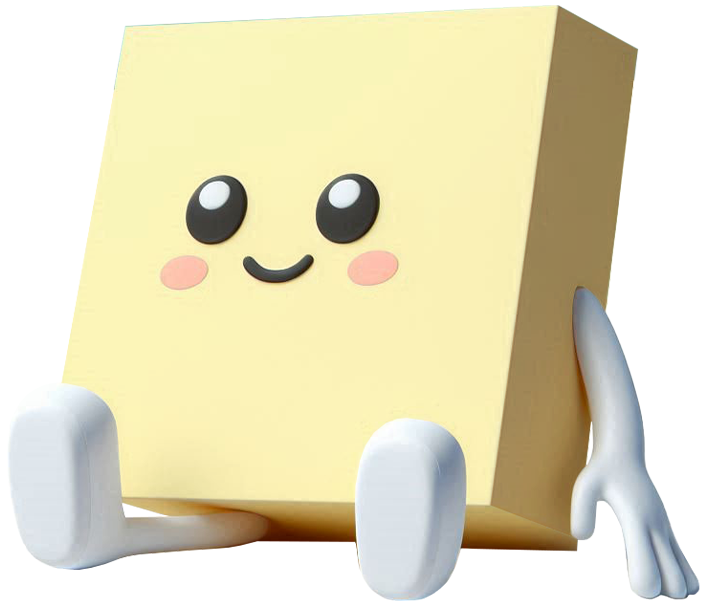
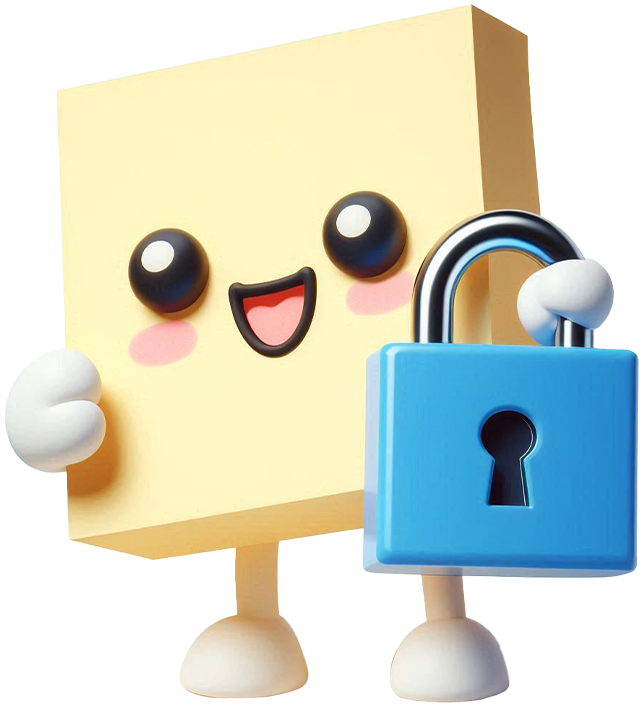
Added rest of the sections
- All text content in the sections are more or less finished
- Added memoization to the sections so they don't re-render
- Swapped section 2 and 3

diff --git a/src/components/landing/SectionThree.tsx b/src/components/landing/SectionThree.tsx
@@ -1,50 +1,38 @@
 import Landing3Note from "../../assets/landing-page/Landing_3_Note.webp";
-import Landing3CloudMain from "../../assets/landing-page/Landing_3_Cloud_Main.webp";
-import Landing3CloudLeft from "../../assets/landing-page/Landing_3_Cloud_Left.webp";
-import Landing3CloudRight from "../../assets/landing-page/Landing_3_Cloud_Right.webp";
+
+// Encrypted sample text
+/* 
[1 lines of base64/hex data omitted]
+*/
 
 const SectionThree = () => {
 	const S3Text = () => (
 		<>
 			<h1 className="text-[3.5rem] leading-[3.9rem] font-bold">
-				<span className="text-accent selection:text-black">10MB</span> of
-				<br /> Cloud Storage
-				<br /> for{" "}
-				<span className="relative">
-					free
-					<span className="absolute bottom-0 left-0 w-full h-[6px] bg-accent rounded-full animate-underline" />
-				</span>
+				Your Files,
+				<br /> Your Key,
+				<br />
+				<span className="text-accent selection:text-black">Your Privacy</span>
 			</h1>
 			<p className="text-lg leading-[1.575rem]">
-				That's more space than what's needed for the entire{" "}
-				<span className="text-accent selection:text-black">Lord of the Rings</span> and{" "}
-				<span className="text-accent selection:text-black">Harry Potter</span> book series,{" "}
-				<i>combined</i>.
+				Your privacy is non-negotiable. We encrypt your files with a{" "}
+				<span className="text-[#21aeff] selection:text-black">key only you know</span>, that is
+				never sent to us.
+				<br />
+				No one else — <b>not even us</b> — can access your files.
 			</p>
 		</>
 	);
 
 	const S3Image = () => (
 		<>
-			{/* Cloud */}
-			<div className="absolute h-auto w-[76%] z-0 animate-cloud-main">
-				<img draggable={false} src={Landing3CloudMain} className="h-auto w-full object-contain" />
-				<img
-					draggable={false}
-					src={Landing3CloudLeft}
-					className="absolute top-[132px] left-[61px] h-auto w-[34%] object-contain animate-cloud-left"
-				/>
-				<img
-					draggable={false}
-					src={Landing3CloudRight}
-					className="absolute top-[112px] right-[44px] h-auto w-[32%] object-contain animate-cloud-right"
-				/>
-			</div>
+			{/* Encryption text */}
+			<div className="absolute h-auto w-[76%] z-0 bg-neutral-800">Encrypted text</div>
 			{/* Note */}
 			<img
 				draggable={false}
 				src={Landing3Note}
-				className="absolute h-auto w-[65%] translate-y-36 object-contain z-[1]"
+				className="absolute h-auto w-[60%] translate-y-36 object-contain z-[1]"
 			/>
 		</>
 	);

diff --git a/src/pages/LandingPage.tsx b/src/pages/LandingPage.tsx
@@ -1,11 +1,30 @@
-import { useState } from "react";
+/* eslint-disable react-hooks/exhaustive-deps */
+import { useMemo, useState } from "react";
 import LandingNavbar from "../components/layout/Navbar/LandingNavbar";
-import SectionThree from "../components/landing/SectionThree";
 import CTAButton from "../components/landing/CTAButton";
+import SectionOne from "../components/landing/SectionOne";
+import SectionTwo from "../components/landing/SectionTwo";
+import SectionThree from "../components/landing/SectionThree";
 
 const LandingPage = () => {
 	const [activeSection, setActiveSection] = useState(3);
-	const { S3Text, S3Image } = SectionThree();
+
+	// Memoize section so we dont rerender them
+	const { S1Text, S1Image } = useMemo(() => SectionOne(), []);
+	const { S2Text, S2Image } = useMemo(() => SectionTwo(), []);
+	const { S3Text, S3Image } = useMemo(() => SectionThree(), []);
+
+	const sections = useMemo(
+		() => [
+			{ Text: S1Text, Image: S1Image },
+			{ Text: S2Text, Image: S2Image },
+			{ Text: S3Text, Image: S3Image },
+		],
+		[]
+	);
+
+	// Show the active section
+	const { Text: ActiveText, Image: ActiveImage } = sections[activeSection - 1];
 
 	return (
 		<div className="h-dvh px-2 py-1 overflow-hidden">
@@ -14,13 +33,16 @@ const LandingPage = () => {
 				<LandingNavbar />
 				<main className="max-w-[1200px] grid grid-cols-5 h-full min-h-[700px] pb-20">
 					<section className="flex flex-col justify-center gap-8 px-4 col-span-2">
-						{/* Change the content depending on active section */}
-						{activeSection === 3 ? <S3Text /> : null}
+						{ActiveText && <ActiveText />}
 						<CTAButton />
+						{/* DEV next button */}
+						<button onClick={() => setActiveSection((prev) => (prev === 3 ? 1 : prev + 1))}>
+							next
+						</button>
 					</section>
 					{/* Images */}
 					<section className="relative min-h-[700px] col-span-3 flex flex-col items-center justify-center select-none">
-						{activeSection === 3 ? <S3Image /> : null}
+						{ActiveImage && <ActiveImage />}
 					</section>
 				</main>
 			</div>

diff --git a/src/components/landing/SectionTwo.tsx b/src/components/landing/SectionTwo.tsx
@@ -1,0 +1,55 @@
+import Landing2Note from "../../assets/landing-page/Landing_2_Note.webp";
+import Landing2CloudMain from "../../assets/landing-page/Landing_2_Cloud_Main.webp";
+import Landing2CloudLeft from "../../assets/landing-page/Landing_2_Cloud_Left.webp";
+import Landing2CloudRight from "../../assets/landing-page/Landing_2_Cloud_Right.webp";
+
+const SectionTwo = () => {
+	const S2Text = () => (
+		<>
+			<h1 className="text-[3.5rem] leading-[3.9rem] font-bold">
+				<span className="text-accent selection:text-black">10MB</span> of
+				<br /> Cloud Storage
+				<br /> for{" "}
+				<span className="relative">
+					Free
+					<span className="absolute bottom-0 left-0 w-full h-[6px] bg-accent rounded-full animate-underline" />
+				</span>
+			</h1>
+			<p className="text-lg leading-[1.575rem]">
+				That's more space than what's needed for the entire{" "}
+				<span className="text-[#21aeff] selection:text-black">Lord of the Rings</span> and{" "}
+				<span className="text-[#21aeff] selection:text-black">Harry Potter</span> book series,{" "}
+				<i>combined</i>.
+			</p>
+		</>
+	);
+
+	const S2Image = () => (
+		<>
+			{/* Cloud */}
+			<div className="absolute h-auto w-[76%] z-0 animate-cloud-main">
+				<img draggable={false} src={Landing2CloudMain} className="h-auto w-full object-contain" />
+				<img
+					draggable={false}
+					src={Landing2CloudLeft}
+					className="absolute top-[132px] left-[61px] h-auto w-[34%] object-contain animate-cloud-left"
+				/>
+				<img
+					draggable={false}
+					src={Landing2CloudRight}
+					className="absolute top-[112px] right-[44px] h-auto w-[32%] object-contain animate-cloud-right"
+				/>
+			</div>
+			{/* Note */}
+			<img
+				draggable={false}
+				src={Landing2Note}
+				className="absolute h-auto w-[65%] translate-y-36 object-contain z-[1]"
+			/>
+		</>
+	);
+
+	return { S2Text, S2Image };
+};
+
+export default SectionTwo;

diff --git a/src/components/landing/SectionOne.tsx b/src/components/landing/SectionOne.tsx
@@ -1,0 +1,49 @@
+import Landing2Note from "../../assets/landing-page/Landing_2_Note.webp";
+import Landing2CloudMain from "../../assets/landing-page/Landing_2_Cloud_Main.webp";
+import Landing2CloudLeft from "../../assets/landing-page/Landing_2_Cloud_Left.webp";
+import Landing2CloudRight from "../../assets/landing-page/Landing_2_Cloud_Right.webp";
+
+const SectionOne = () => {
+	const S1Text = () => (
+		<>
+			<h1 className="text-[3.5rem] leading-[3.9rem] font-bold">
+				<span className="text-accent selection:text-black">Your Ideas</span>, Securely Formatted
+			</h1>
+			<p className="text-lg leading-[1.575rem]">
+				Create and edit text files with Muistio Markdown editor, perfect for{" "}
+				<span className="text-[#21aeff] selection:text-black">quick notes</span> or{" "}
+				<span className="text-[#21aeff] selection:text-black">detailed documents</span>. All files
+				are encrypted locally and stored in the cloud.
+			</p>
+		</>
+	);
+
+	const S1Image = () => (
+		<>
+			{/* Cloud */}
+			<div className="absolute h-auto w-[76%] z-0 animate-cloud-main">
+				<img draggable={false} src={Landing2CloudMain} className="h-auto w-full object-contain" />
+				<img
+					draggable={false}
+					src={Landing2CloudLeft}
+					className="absolute top-[132px] left-[61px] h-auto w-[34%] object-contain animate-cloud-left"
+				/>
+				<img
+					draggable={false}
+					src={Landing2CloudRight}
+					className="absolute top-[112px] right-[44px] h-auto w-[32%] object-contain animate-cloud-right"
+				/>
+			</div>
+			{/* Note */}
+			<img
+				draggable={false}
+				src={Landing2Note}
+				className="absolute h-auto w-[65%] translate-y-36 object-contain z-[1]"
+			/>
+		</>
+	);
+
+	return { S1Text, S1Image };
+};
+
+export default SectionOne;
